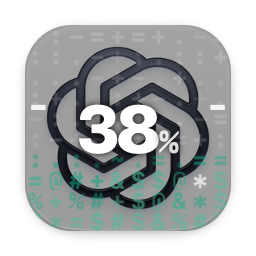
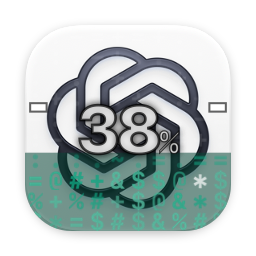
只有用掉的部分壓暗染色，多少 % 就滿到多少；數字和刻度加深色描邊

diff --git a/Sources/UsageMeter/main.swift b/Sources/UsageMeter/main.swift
@@ -138,9 +138,12 @@ func renderIcon(kind: Kind, base: NSImage?, short: Double?, long: Double?, phase
         NSGraphicsContext.saveGraphicsState()
         shape.addClip()
 
-        // 整個圖示壓暗
-        NSColor.black.withAlphaComponent(0.35).setFill()
-        body.fill()
+        // 只有用掉的部分（水位以下）壓暗＋染色，上面維持原圖示：多少 % 就滿到多少
+        let filled = NSRect(x: body.minX, y: body.minY, width: body.width, height: body.height * p)
+        NSColor.black.withAlphaComponent(0.40).setFill()
+        filled.fill()
+        color.withAlphaComponent(0.22).setFill()
+        filled.fill()
 
         // ASCII 格子：用掉的部分由密字元填滿、隨機跳字＋白色閃光；水面那排淡字元翻騰；空的部分只留淡點
         let cols = 10
@@ -170,14 +173,14 @@ func renderIcon(kind: Kind, base: NSImage?, short: Double?, long: Double?, phase
                         ch = dense[Int(x * CGFloat(dense.count)) % dense.count]
                         let b = (rnd(c, r, k) * 4).rounded(.down) / 4          // 4 種亮度
                         col = color.blended(withFraction: 0.25 * b, of: .white)!; key = "d\(b)\(hot)\(kind)"
-                        alpha = 0.45 + 0.2 * rnd(c, r, k + 9)
+                        alpha = 0.6 + 0.3 * rnd(c, r, k + 9)
                     }
                 } else if rect.minY < level {
                     ch = surf[Int(x * CGFloat(surf.count)) % surf.count]
                     col = color; key = "s\(hot)\(kind)"; alpha = 0.3 + 0.3 * rnd(c, r, tick)
                 } else {
                     ch = dim[Int(x * CGFloat(dim.count)) % dim.count]
-                    col = .white; key = "w"; alpha = 0.10 + 0.08 * rnd(c, r, k)
+                    col = .white; key = "w"; alpha = 0.06 + 0.06 * rnd(c, r, k)
                 }
                 cg.setAlpha(alpha)
                 cg.draw(glyphImage(ch, col, glyph, cell, key), in: rect)
@@ -189,10 +192,14 @@ func renderIcon(kind: Kind, base: NSImage?, short: Double?, long: Double?, phase
         // 7 天刻度：兩側的小括號
         if let long {
             let y = area.minY + area.height * CGFloat(min(max(long, 0), 100)) / 100
-            NSColor.white.withAlphaComponent(0.9).setFill()
-            let w = body.width * 0.07, h = max(s * 0.02, 1)
-            NSRect(x: body.minX + body.width * 0.03, y: y - h / 2, width: w, height: h).fill()
-            NSRect(x: body.maxX - body.width * 0.03 - w, y: y - h / 2, width: w, height: h).fill()
+            let w = body.width * 0.07, h = max(s * 0.025, 1)
+            for x in [body.minX + body.width * 0.03, body.maxX - body.width * 0.03 - w] {
+                let r = NSRect(x: x, y: y - h / 2, width: w, height: h)
+                NSColor.black.withAlphaComponent(0.6).setFill()
+                r.insetBy(dx: -s * 0.008, dy: -s * 0.008).fill()
+                NSColor.white.setFill()
+                r.fill()
+            }
         }
         NSGraphicsContext.restoreGraphicsState()
 
@@ -203,8 +210,10 @@ func renderIcon(kind: Kind, base: NSImage?, short: Double?, long: Double?, phase
         shadow.shadowColor = NSColor.black.withAlphaComponent(0.85)
         shadow.shadowBlurRadius = s * 0.03
         let font = NSFont.monospacedSystemFont(ofSize: s * 0.26, weight: .heavy)
-        let str = NSMutableAttributedString(string: num, attributes: [.font: font, .foregroundColor: NSColor.white, .shadow: shadow])
-        str.append(NSAttributedString(string: "%", attributes: [.font: NSFont.monospacedSystemFont(ofSize: s * 0.12, weight: .bold), .foregroundColor: NSColor.white.withAlphaComponent(0.85), .shadow: shadow]))
+        let str = NSMutableAttributedString(string: num, attributes: [.font: font, .foregroundColor: NSColor.white, .shadow: shadow,
+                                                                        .strokeColor: NSColor.black.withAlphaComponent(0.7), .strokeWidth: -4])
+        str.append(NSAttributedString(string: "%", attributes: [.font: NSFont.monospacedSystemFont(ofSize: s * 0.12, weight: .bold), .foregroundColor: NSColor.white, .shadow: shadow,
+                                                                        .strokeColor: NSColor.black.withAlphaComponent(0.7), .strokeWidth: -4]))
         let sz = str.size()
         str.draw(at: NSPoint(x: body.midX - sz.width / 2, y: body.midY - sz.height / 2))
         return true
